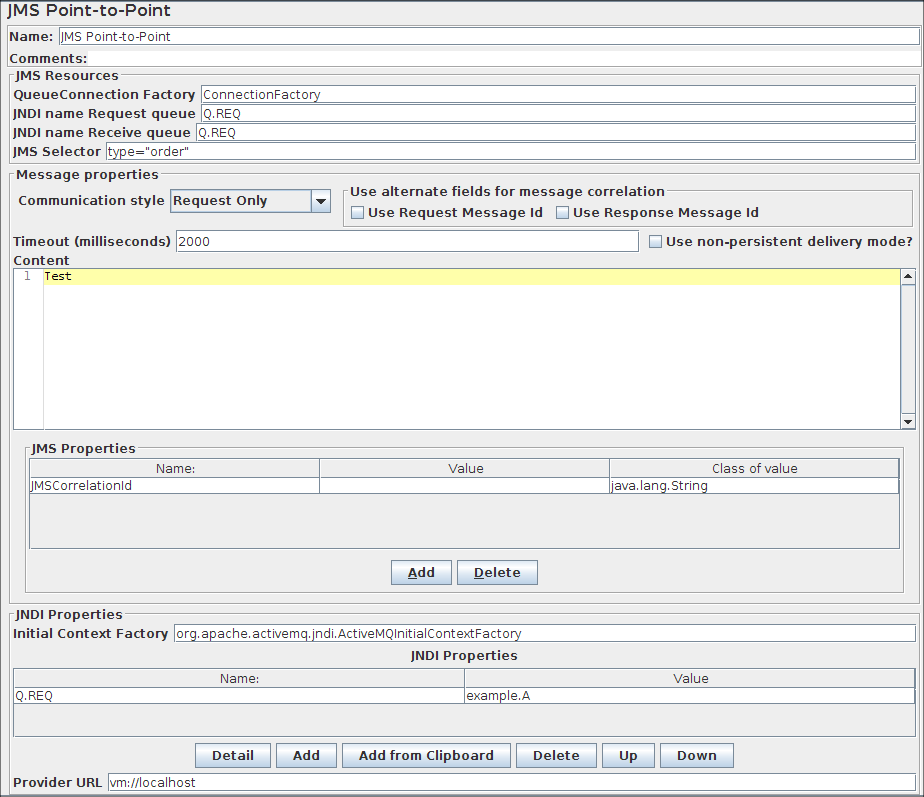
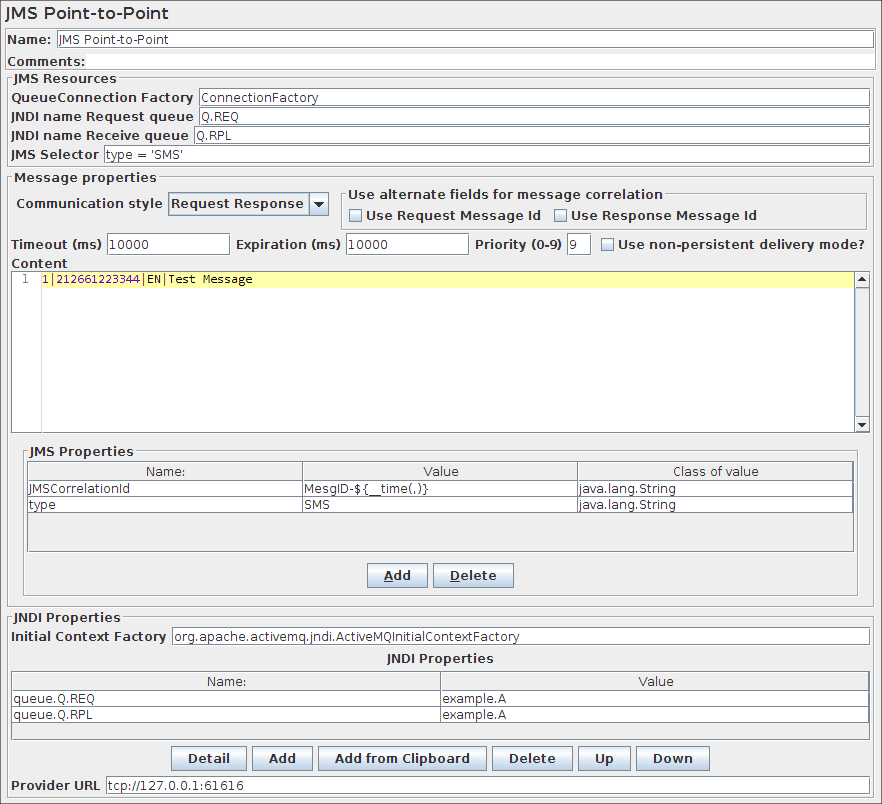
JMSSampler: For input string: "" java.lang.NumberFormatException (for Expiration or Priority fields) - fix the bug - simplify some code arround getPropertyAsString() vs Constant fields for Priority and Expiration - add documentation for these fields in User Manual (JMS Publisher and JMS Point-to-Poi
git-svn-id: https://svn.apache.org/repos/asf/jmeter/trunk@1636619 13f79535-47bb-0310-9956-ffa450edef68

Former-commit-id: d2dc649d2ce5781c1476305ecb73a8a72d6069e8

Changed region(s): [[0.0, 0.0, 1.0, 1.0]]

diff --git a/src/protocol/jms/org/apache/jmeter/protocol/jms/sampler/JMSSampler.java b/src/protocol/jms/org/apache/jmeter/protocol/jms/sampler/JMSSampler.java
@@ -469,11 +469,21 @@ public class JMSSampler extends AbstractSampler implements ThreadListener {
     }
     
     public String getExpiration() {
-        return getPropertyAsString(JMS_EXPIRATION, Long.toString(Utils.DEFAULT_NO_EXPIRY));
+        String expiration = getPropertyAsString(JMS_EXPIRATION);
+        if (expiration.length() == 0) {
+            return Utils.DEFAULT_NO_EXPIRY;
+        } else {
+            return expiration;
+        }
     }
 
     public String getPriority() {
-        return getPropertyAsString(JMS_PRIORITY, Integer.toString(Utils.DEFAULT_PRIORITY_4));
+        String priority = getPropertyAsString(JMS_PRIORITY);
+        if (priority.length() == 0) {
+            return Utils.DEFAULT_PRIORITY_4;
+        } else {
+            return priority;
+        }
     }
     
     /**
@@ -515,11 +525,11 @@ public class JMSSampler extends AbstractSampler implements ThreadListener {
     }
     
     public void setPriority(String s) {
-        setProperty(JMSSampler.JMS_PRIORITY, s, Integer.toString(Utils.DEFAULT_PRIORITY_4));
+        setProperty(JMSSampler.JMS_PRIORITY, s, Utils.DEFAULT_PRIORITY_4);
     }
     
     public void setExpiration(String s) {
-        setProperty(JMSSampler.JMS_EXPIRATION, s, Long.toString(Utils.DEFAULT_NO_EXPIRY));
+        setProperty(JMSSampler.JMS_EXPIRATION, s, Utils.DEFAULT_NO_EXPIRY);
     }
 
     /**

diff --git a/src/protocol/jms/org/apache/jmeter/protocol/jms/sampler/PublisherSampler.java b/src/protocol/jms/org/apache/jmeter/protocol/jms/sampler/PublisherSampler.java
@@ -500,19 +500,19 @@ public class PublisherSampler extends BaseJMSSampler implements TestStateListene
     }
 
     public String getExpiration() {
-        return getPropertyAsString(JMS_EXPIRATION, Long.toString(Utils.DEFAULT_NO_EXPIRY));
+        return getPropertyAsString(JMS_EXPIRATION, Utils.DEFAULT_NO_EXPIRY);
     }
 
     public String getPriority() {
-        return getPropertyAsString(JMS_PRIORITY, Integer.toString(Utils.DEFAULT_PRIORITY_4));
+        return getPropertyAsString(JMS_PRIORITY, Utils.DEFAULT_PRIORITY_4);
     }
     
     public void setPriority(String s) {
-        setProperty(JMS_PRIORITY, s, Integer.toString(Utils.DEFAULT_PRIORITY_4));
+        setProperty(JMS_PRIORITY, s, Utils.DEFAULT_PRIORITY_4);
     }
     
     public void setExpiration(String s) {
-        setProperty(JMS_EXPIRATION, s, Long.toString(Utils.DEFAULT_NO_EXPIRY));
+        setProperty(JMS_EXPIRATION, s, Utils.DEFAULT_NO_EXPIRY);
     }
     
     /**

diff --git a/src/protocol/jms/org/apache/jmeter/protocol/jms/Utils.java b/src/protocol/jms/org/apache/jmeter/protocol/jms/Utils.java
@@ -44,11 +44,11 @@ import org.apache.log.Logger;
 public final class Utils {
     // By default priority is 4
     // http://docs.oracle.com/javaee/6/tutorial/doc/bncfu.html
-    public static final int DEFAULT_PRIORITY_4 = 4;
+    public static final String DEFAULT_PRIORITY_4 = "4"; // $NON-NLS-1$
 
     // By default a message never expires
     // http://docs.oracle.com/javaee/6/tutorial/doc/bncfu.html
-    public static final long DEFAULT_NO_EXPIRY = 0L;
+    public static final String DEFAULT_NO_EXPIRY = "0"; // $NON-NLS-1$
 
     private static final Logger log = LoggingManager.getLoggerForClass();
 
